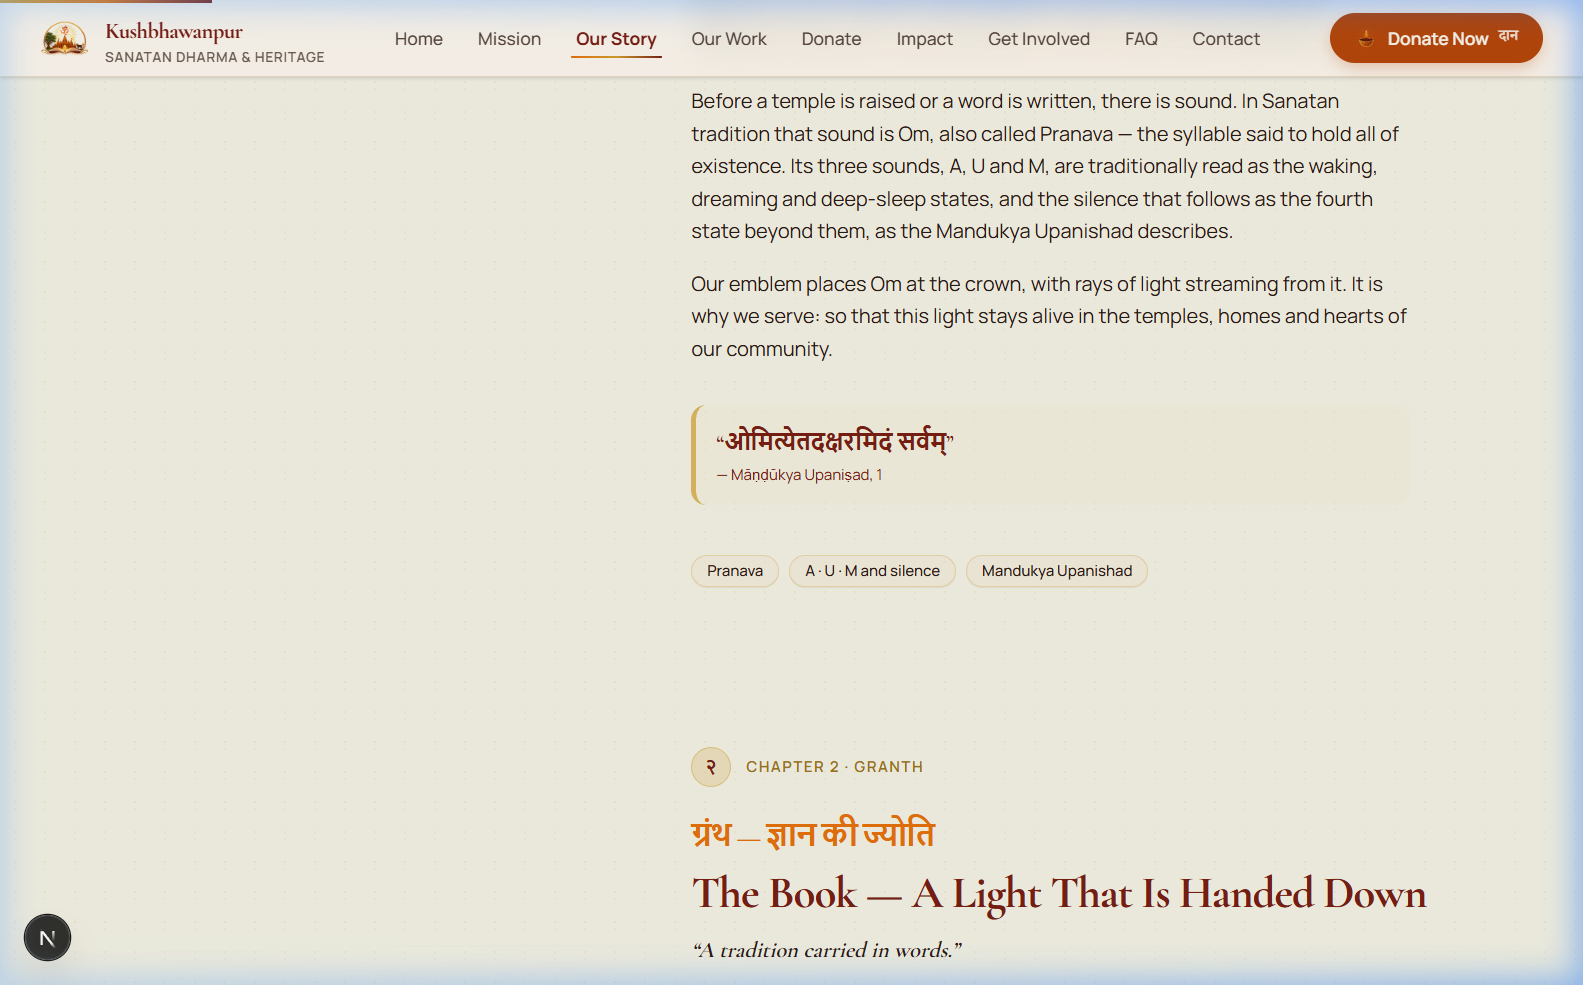
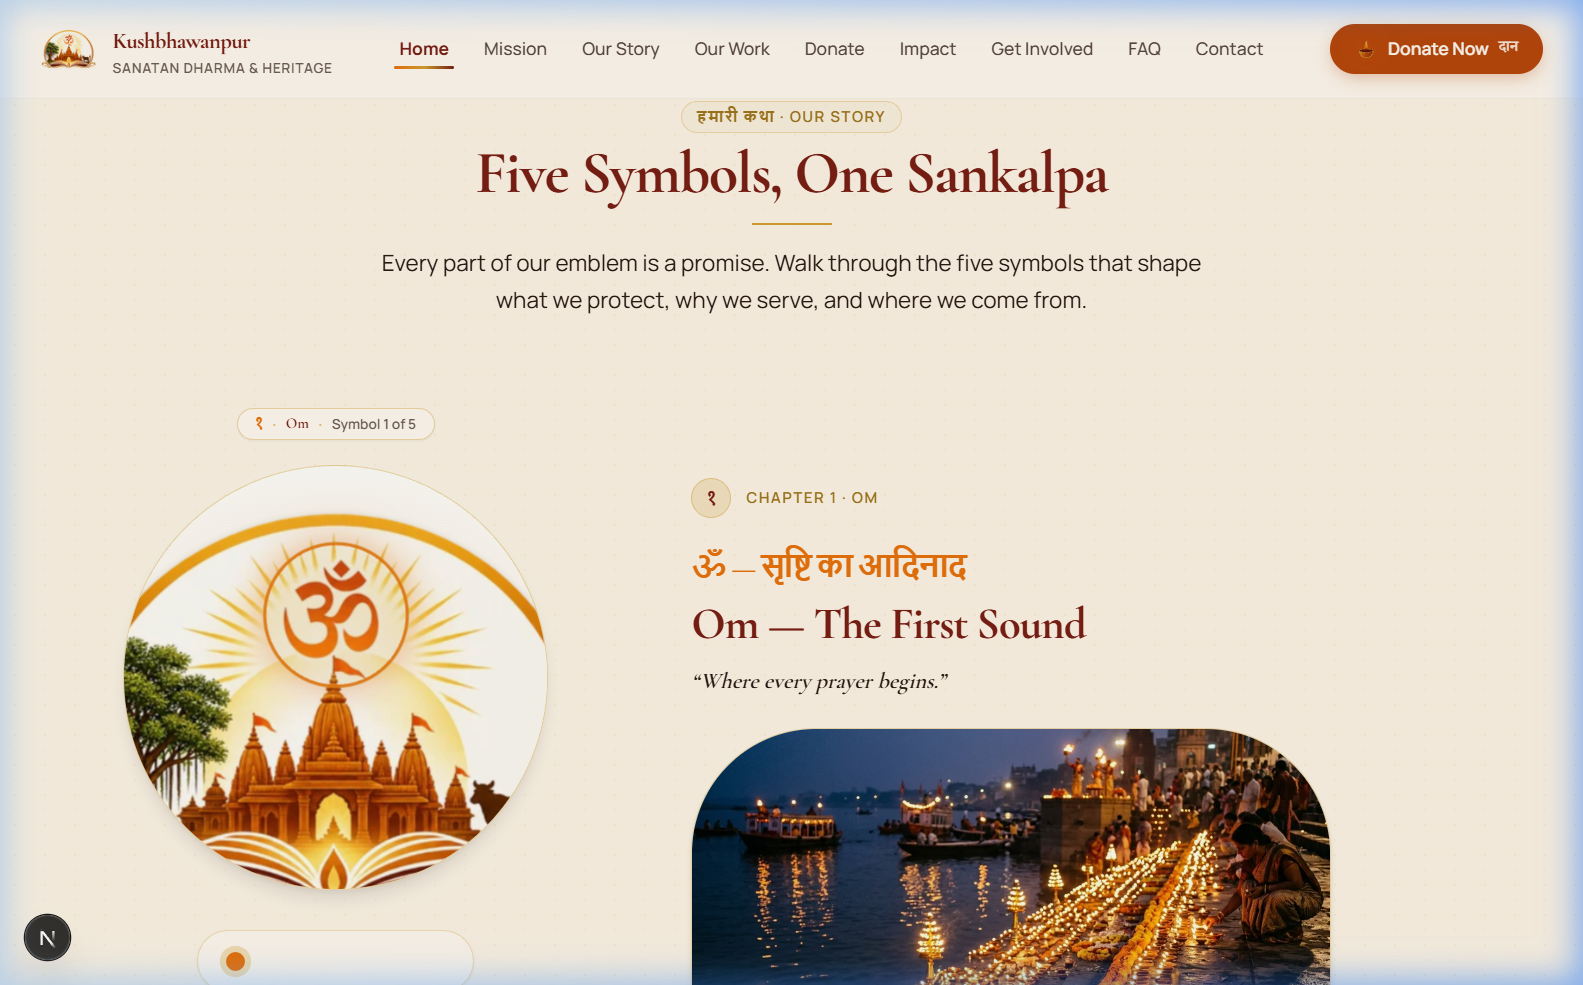
fix(story): pin sticky left emblem during chapter scroll and calibrate Om hotspot alignment

diff --git a/components/sections/Story/Story.tsx b/components/sections/Story/Story.tsx
@@ -14,19 +14,25 @@ export function Story() {
   const chapterRefs = useRef<(HTMLElement | null)[]>([]);
   const prefersReduced = useReducedMotion();
 
-  // Scroll spy for chapters
+  // Precise viewport-centered scroll spy for chapters
   useEffect(() => {
     const handleScroll = () => {
-      const scrollPosition = window.scrollY + window.innerHeight * 0.45;
+      const targetLine = window.innerHeight * 0.45;
+      let closestIdx = 0;
+      let minDistance = Infinity;
 
       chapterRefs.current.forEach((el, index) => {
         if (!el) return;
-        const top = el.offsetTop;
-        const height = el.offsetHeight;
-        if (scrollPosition >= top && scrollPosition < top + height) {
-          setActiveChapterIndex(index);
+        const rect = el.getBoundingClientRect();
+        const chapterCenter = rect.top + rect.height * 0.4;
+        const dist = Math.abs(chapterCenter - targetLine);
+        if (dist < minDistance) {
+          minDistance = dist;
+          closestIdx = index;
         }
       });
+
+      setActiveChapterIndex(closestIdx);
     };
 
     window.addEventListener("scroll", handleScroll, { passive: true });
@@ -56,7 +62,7 @@ export function Story() {
     <section
       id="story"
       aria-labelledby="story-section-title"
-      className="relative w-full overflow-hidden bg-paper transition-colors duration-700 pt-20 pb-12"
+      className="relative w-full bg-paper transition-colors duration-700 pt-20 pb-12"
       style={{
         backgroundColor: currentChapter.tint
       }}
@@ -138,10 +144,10 @@ export function Story() {
 
       {/* Main Chapters Content Area */}
       <div className="relative z-10 max-w-7xl mx-auto px-4 sm:px-6 lg:px-8">
-        {/* Desktop Layout (>= 1024px): 2 Columns (Sticky Emblem Left, Scrolling Chapters Right) */}
-        <div className="hidden lg:grid lg:grid-cols-12 lg:gap-12 items-start">
-          {/* Left Column: Sticky Emblem */}
-          <div className="lg:col-span-5 relative">
+        {/* Desktop Layout (>= 1024px): 2 Columns (Sticky Left Emblem Showcase, Smooth Scrolling Right Chapters) */}
+        <div className="hidden lg:grid lg:grid-cols-12 lg:gap-12 xl:gap-16 items-start relative">
+          {/* Left Column: Fixed / Sticky Emblem Showcase */}
+          <div className="lg:col-span-5 lg:sticky lg:top-28 self-start pt-2 pb-8">
             <StoryEmblem
               activeIndex={activeChapterIndex}
               onSelectChapter={handleSelectChapter}
@@ -149,7 +155,7 @@ export function Story() {
           </div>
 
           {/* Right Column: Scrolling Chapters */}
-          <div className="lg:col-span-7 flex flex-col">
+          <div className="lg:col-span-7 flex flex-col space-y-24 xl:space-y-32 py-4">
             {STORY_CONTENT.chapters.map((chapter, index) => (
               <div
                 key={chapter.id}

diff --git a/scripts/detect-hotspots.js b/scripts/detect-hotspots.js
@@ -1,0 +1,46 @@
+const sharp = require('sharp');
+const path = require('path');
+
+async function detect() {
+  const emblemPath = path.join(__dirname, '..', 'public', 'brand', 'emblem.png');
+  const { data, info } = await sharp(emblemPath).raw().toBuffer({ resolveWithObject: true });
+  const { width, height, channels } = info;
+
+  let minX = width, maxX = 0, minY = height, maxY = 0;
+  let count = 0;
+  let sumX = 0, sumY = 0;
+
+  for (let y = Math.round(height * 0.18); y < Math.round(height * 0.44); y++) {
+    for (let x = Math.round(width * 0.32); x < Math.round(width * 0.68); x++) {
+      const idx = (y * width + x) * channels;
+      const r = data[idx];
+      const g = data[idx + 1];
+      const b = data[idx + 2];
+      const a = data[idx + 3];
+
+      // Red/saffron color of Om: r > 160, g < 110, b < 90
+      if (a > 180 && r > 160 && g < 110 && b < 90) {
+        if (x < minX) minX = x;
+        if (x > maxX) maxX = x;
+        if (y < minY) minY = y;
+        if (y > maxY) maxY = y;
+        sumX += x;
+        sumY += y;
+        count++;
+      }
+    }
+  }
+
+  console.log('Pixels matched:', count);
+  if (count > 0) {
+    const avgX = sumX / count;
+    const avgY = sumY / count;
+    console.log(`Om X range: ${minX} to ${maxX} (${(minX / width * 100).toFixed(1)}% to ${(maxX / width * 100).toFixed(1)}%)`);
+    console.log(`Om Y range: ${minY} to ${maxY} (${(minY / height * 100).toFixed(1)}% to ${(maxY / height * 100).toFixed(1)}%)`);
+    console.log(`Om Center: X = ${(avgX / width * 100).toFixed(1)}%, Y = ${(avgY / height * 100).toFixed(1)}%`);
+    const radius = Math.max((maxX - minX) / width, (maxY - minY) / height) * 50 * 1.25;
+    console.log(`Suggested Ring Radius: ${radius.toFixed(1)}%`);
+  }
+}
+
+detect().catch(console.error);

diff --git a/components/sections/Story/StoryEmblem.tsx b/components/sections/Story/StoryEmblem.tsx
@@ -37,13 +37,20 @@ export function StoryEmblem({
   const transform = getEmblemTransform(currentChapter.hotspot, isReduced);
 
   return (
-    <div
-      className={
-        isTabletStrip
-          ? "w-full flex flex-col items-center justify-center py-2"
-          : "sticky top-24 lg:top-28 w-full flex flex-col items-center justify-center"
-      }
-    >
+    <div className="w-full flex flex-col items-center justify-center">
+      {/* Active Symbol Indicator Badge on Desktop */}
+      {!isTabletStrip && (
+        <div className="mb-5 inline-flex items-center gap-2 px-3.5 py-1 rounded-full bg-cream/90 border border-gold/40 text-maroon text-xs font-serif font-semibold shadow-xs">
+          <span className="text-saffron font-bold">{currentChapter.numberDevanagari}</span>
+          <span className="text-gold/80">·</span>
+          <span>{currentChapter.symbolName}</span>
+          <span className="text-gold/80">·</span>
+          <span className="text-muted text-[11px] font-sans">
+            Symbol {currentChapter.index + 1} of 5
+          </span>
+        </div>
+      )}
+
       {/* Emblem Frame with Arched Border & Glow */}
       <div
         className={

diff --git a/components/sections/Story/StoryChapter.tsx b/components/sections/Story/StoryChapter.tsx
@@ -25,10 +25,15 @@ export function StoryChapter({
       id={`story-chapter-${chapter.id}`}
       aria-labelledby={headingId}
       className={cn(
-        "relative w-full transition-opacity duration-500",
+        "relative w-full",
         isMobileCard
           ? "py-8 border-b border-gold/20 last:border-b-0"
-          : "min-h-[85vh] lg:min-h-[92vh] flex flex-col justify-center py-16 scroll-mt-28"
+          : cn(
+              "min-h-[75vh] lg:min-h-[85vh] flex flex-col justify-center py-12 scroll-mt-32 transition-all duration-500",
+              isActive
+                ? "opacity-100 scale-100"
+                : "lg:opacity-40 hover:opacity-85 lg:scale-[0.985]"
+            )
       )}
     >
       <div className="flex flex-col gap-6">

diff --git a/scripts/prepare-story-assets.js b/scripts/prepare-story-assets.js
@@ -34,7 +34,7 @@ async function prepareStoryAssets() {
   // Temple: (50%, 55%)
 
   const crops = [
-    { name: 'story-om.webp', cx: 0.50, cy: 0.17, zoom: 2.2 },
+    { name: 'story-om.webp', cx: 0.50, cy: 0.34, zoom: 2.2 },
     { name: 'story-book.webp', cx: 0.50, cy: 0.82, zoom: 1.9 },
     { name: 'story-gau.webp', cx: 0.75, cy: 0.66, zoom: 2.2 },
     { name: 'story-parijat.webp', cx: 0.22, cy: 0.48, zoom: 1.8 },

diff --git a/content/story.ts b/content/story.ts
@@ -93,8 +93,8 @@ export const STORY_CONTENT: StoryContent = {
       mobileDetailCrop: "/images/story/story-om.webp",
       hotspot: {
         x: 50,
-        y: 17,
-        radius: 13
+        y: 34,
+        radius: 12
       },
       tint: "rgba(212, 160, 44, 0.05)"
     },
